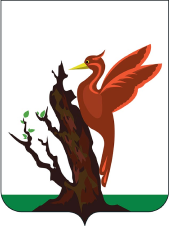
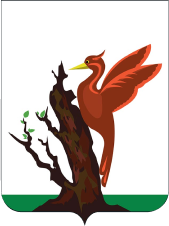
add: emblems section fix: emblem img bird

diff --git a/index.html b/index.html
@@ -252,9 +252,13 @@
 			</section>
 
 			<section>
-				<h2 class="comments__title">Фотографы,<br> снимающие Россию</h2>
+				<h2 class="comments__title">
+					Фотографы,<br />
+					снимающие Россию
+				</h2>
 				<h3 class="comments__subtitle">
-					Природа и люди вдохновили их работы, удостоенные<br> наград на международных конкурсах
+					Природа и люди вдохновили их работы, удостоенные<br />
+					наград на международных конкурсах
 				</h3>
 				<div class="comments__container">
 					<div class="comment">
@@ -285,6 +289,42 @@
 						<p class="quote__author">Сергей Максимишин</p>
 					</div>
 				</div>
+			</section>
+
+			<div class="cover">
+				<h2 class="cover__title">До Байкала «на собаках»</h2>
+				<h3 class="cover__subtitle">
+					По мотивам учебной темы о Транссибе и<br />
+					iframes — путешествие от столицы до<br />
+					Байкала на электричках.
+				</h3>
+				<img src="/img/cover-bg.png" />
+			</div>
+
+			<section class="emblem__wrapper">
+				<h2 class="emblem__title">Природа на гербах<br>российских<br> городов</h2>
+			<div class="emblem__container">
+				<div>
+					<img src="/img/gerb.png">
+					<p class="emblem__text">Великий<br>Новгород</p>
+				</div>
+				<div>
+					<img src="/img/gerb1.png">
+					<p class="emblem__text">Ростов Великий</p>
+				</div>
+				<div>
+					<img src="/img/gerb2.png">
+					<p class="emblem__text">Тамбов</p>
+				</div>
+				<div>
+					<img src="/img/birdsCityLegends02_.png">
+					<p class="emblem__text">Елабуга</p>
+				</div>
+				<div>
+					<img src="/img/Coat_of_Arms_of_Perm_oblast.png">
+					<p class="emblem__text">Пермь</p>
+				</div>
+			</div>
 			</section>
 		</main>
 

diff --git a/style.css b/style.css
@@ -383,3 +383,64 @@ body {
 	line-height: 169.432%; /* 23.72px */
 	margin-top: 24px;
 }
+
+/* cover with trains */
+
+.cover {
+	margin: 102px 0 82px 0;
+	display: flex;
+	justify-content: center;
+}
+
+.cover__title {
+	position: absolute;
+	color: #fffdfd;
+	text-align: center;
+	font-family: Inter;
+	font-size: 72px;
+	font-weight: 900;
+	line-height: 108.92%; /* 78.423px */
+	margin: 274px 0 0 0;
+}
+.cover__subtitle {
+	position: absolute;
+	color: #fff;
+	text-align: center;
+	font-family: Inter;
+	font-size: 18px;
+	font-weight: 400;
+	line-height: 145.227%; /* 26.141px */
+	margin: 477px 0 0 0;
+}
+
+/* emblem */
+
+.emblem__wrapper {
+	width: 1184px;
+	margin: 0 auto;
+}
+
+.emblem__title {
+	color: #fff;
+	font-family: Inter;
+	font-size: 42px;
+	font-weight: 900;
+	line-height: 108.92%; /* 45.747px */
+}
+
+.emblem__container {
+	display: flex;
+	justify-content: space-between;
+	margin-top: 82px;
+}
+
+.emblem__text {
+	display: flex;
+	justify-content: center;
+	color: #ccc;
+	font-family: Inter;
+	font-size: 24px;
+	font-weight: 700;
+	line-height: 108.92%; /* 26.141px */
+	margin-top: 35px;
+}
